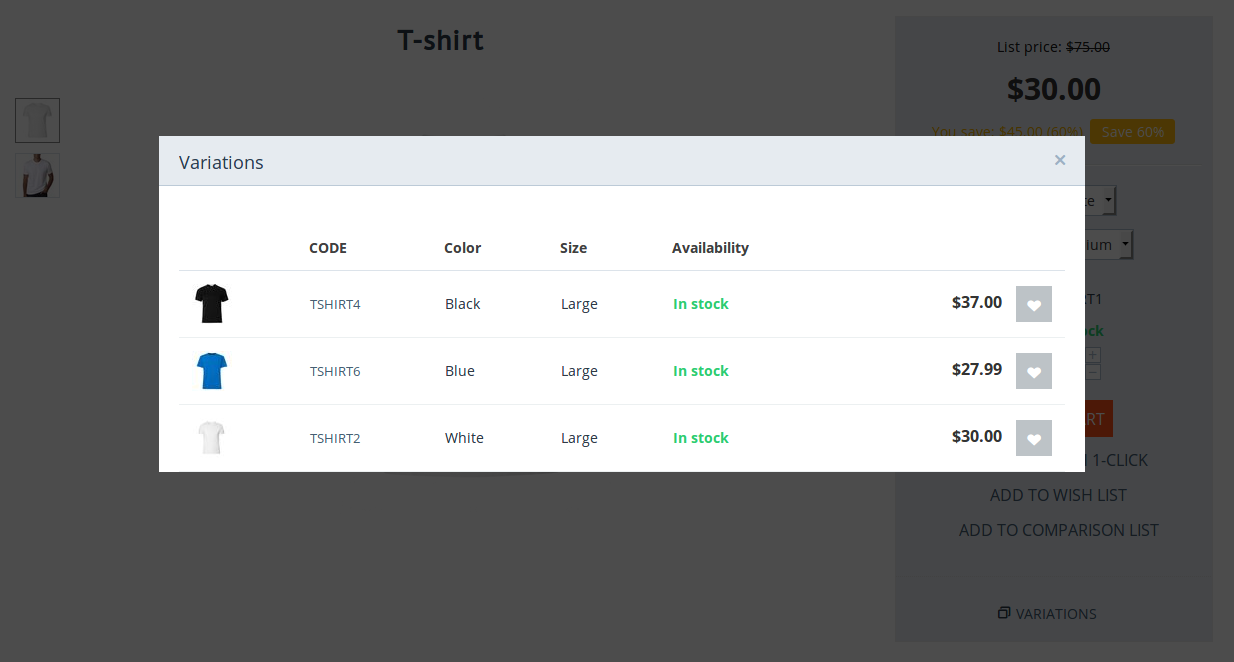
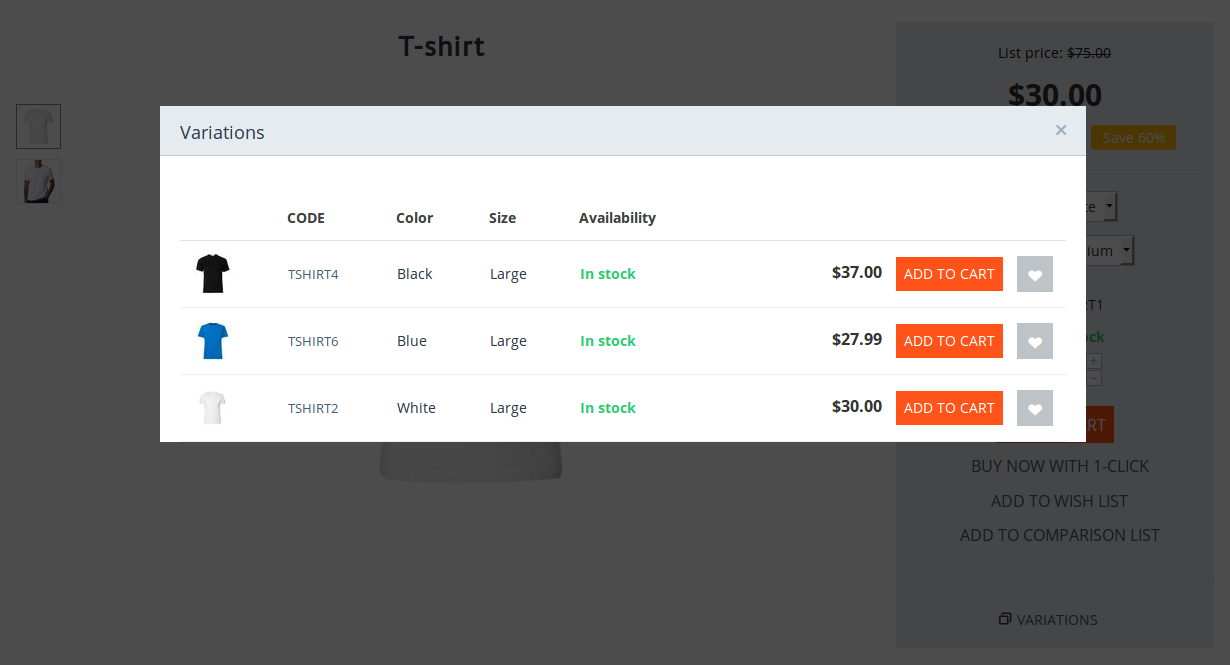
En&Ru: User Guide: Variations: Info updated.

diff --git a/ru/user_guide/manage_products/products/simple_versus_configurable.rst b/ru/user_guide/manage_products/products/simple_versus_configurable.rst
@@ -35,7 +35,7 @@
         -   Вариации товаров
     *   -   Отображение на витрине
         -   Покупатели выбирают нужную комбинацию опций на странице товара. Чтобы выбрать комбинацию, нужно выбрать вариант у каждой опции. Без модификаций кода CS-Cart нет возможности показать на странице товара все доступные комбинации опций одновременно.
-        -   Покупатели могут выбрать нужную вариацию на странице товара, выбрав вариант у каждой опции. Но администратор может :doc:`создать блок со всеми вариациями товара на странице этого товара </user_guide/look_and_feel/layouts/blocks/variations>`. Так покупатели могут на странице товара увидеть все доступные вариации и их количество на складе, а также добавить разные вариации в корзину без необходимости вручную выбирать другие варианты у опций.
+        -   Покупатели могут выбрать нужную вариацию на странице товара, переключая варианты опций. Но администратор может :doc:`создать блок со всеми вариациями товара на странице этого товара </user_guide/look_and_feel/layouts/blocks/variations>`. Так покупатели могут на странице товара увидеть все доступные вариации и их количество на складе, а также добавить разные вариации в корзину без необходимости вручную выбирать другие варианты у опций.
     *   -   Уведомление о наличии товара
         -   Покупатели могут подписаться на уведомление о наличии товара, только если количество товара на складе отслеживается без учёта опций. Подписаться на уведомление об определённой комбинации опций нельзя.
         -   Покупатели могут подписаться на уведомление об определённой вариации товара.

diff --git a/en/user_guide/look_and_feel/layouts/blocks/variations.rst b/en/user_guide/look_and_feel/layouts/blocks/variations.rst
@@ -42,9 +42,11 @@ To add a block with variations on the product page:
        :align: center
        :alt: The Variations filling type.
 
+#. Switch to the **Block settings** tab and choose whether or not to hide the **Add to Cart** button in the block with variations.
+
 #. Click the **Create** button. Now, if a product has variations, the list of these variations will appear on the product page.
 
-#. (optional) :doc:`Create a product tab </user_guide/look_and_feel/tabs/new_tab>` and put a block with variations into that tab, if you'd like the list of variations to be displayed on a separate tab or in a pop-up window. In this case, remember to disable the block that you added to the product page in step 4 of this tutorial.
+#. (optional) If you'd like the list of variations to be displayed on a separate tab or in a pop-up window, :doc:`create a product tab </user_guide/look_and_feel/tabs/new_tab>` and put a block with variations into that tab. If you do so, remember to disable the block that you added to the product page in step 4 of this tutorial.
 
    .. image:: img/variations_as_popup.png
        :align: center

diff --git a/ru/user_guide/look_and_feel/layouts/blocks/variations.rst b/ru/user_guide/look_and_feel/layouts/blocks/variations.rst
@@ -39,6 +39,8 @@
    .. fancybox:: img/variations_filling.png
        :alt: Тип заполнения блока "Вариации".
 
+#. Перейдите на вкладку **Настройки блока** и укажите, хотите ли вы спрятать кнопку добавления в корзину на блоке с вариациями.
+
 #. Нажмите кнопку **Создать**. Теперь на странице товара будет отображаться список вариаций, если вариации у товара есть.
 
 #. (опционально) Eсли хотите отображать список вариаций в отдельной вкладке или во всплывающем окне, :doc:`создайте вкладку товара </user_guide/look_and_feel/tabs/new_tab>` и разместите в ней блок с вариациями. Не забудьте скрыть блок, который мы добавляли в шаге 4 этой инструкции.
